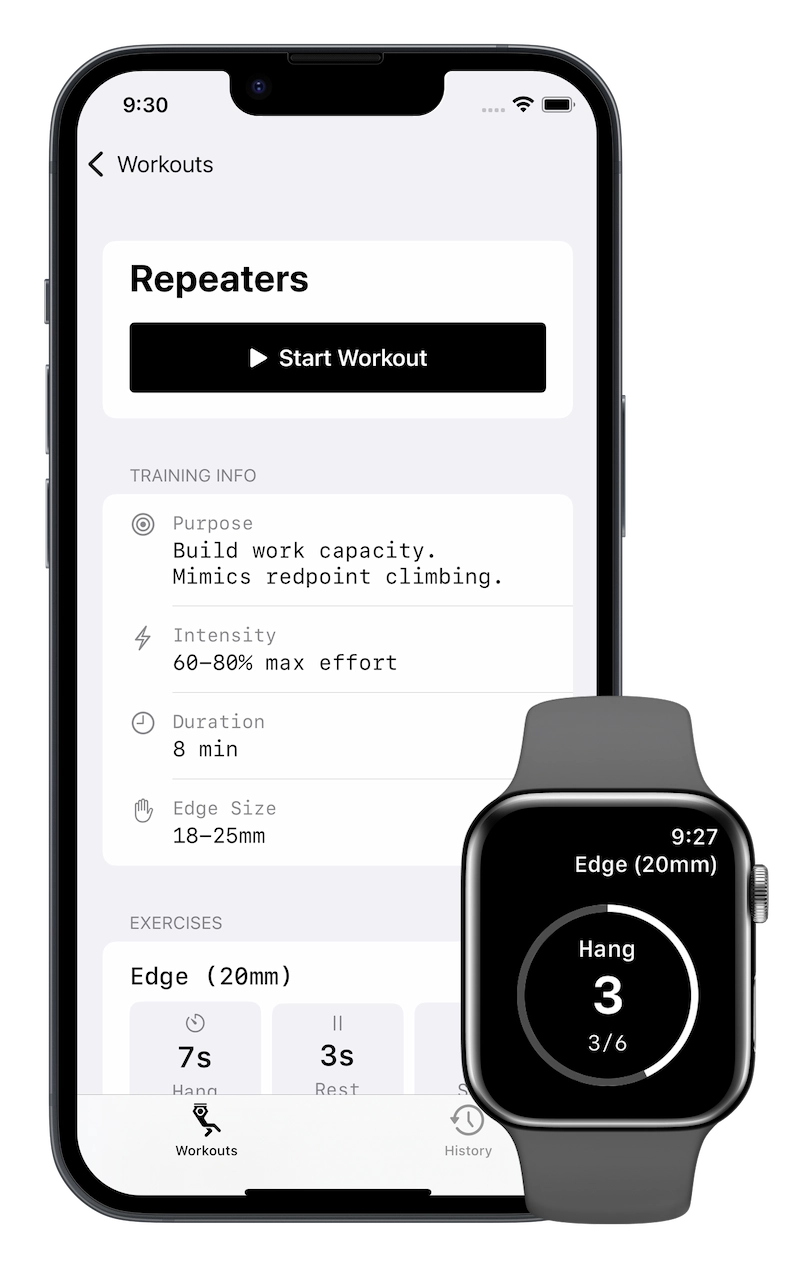
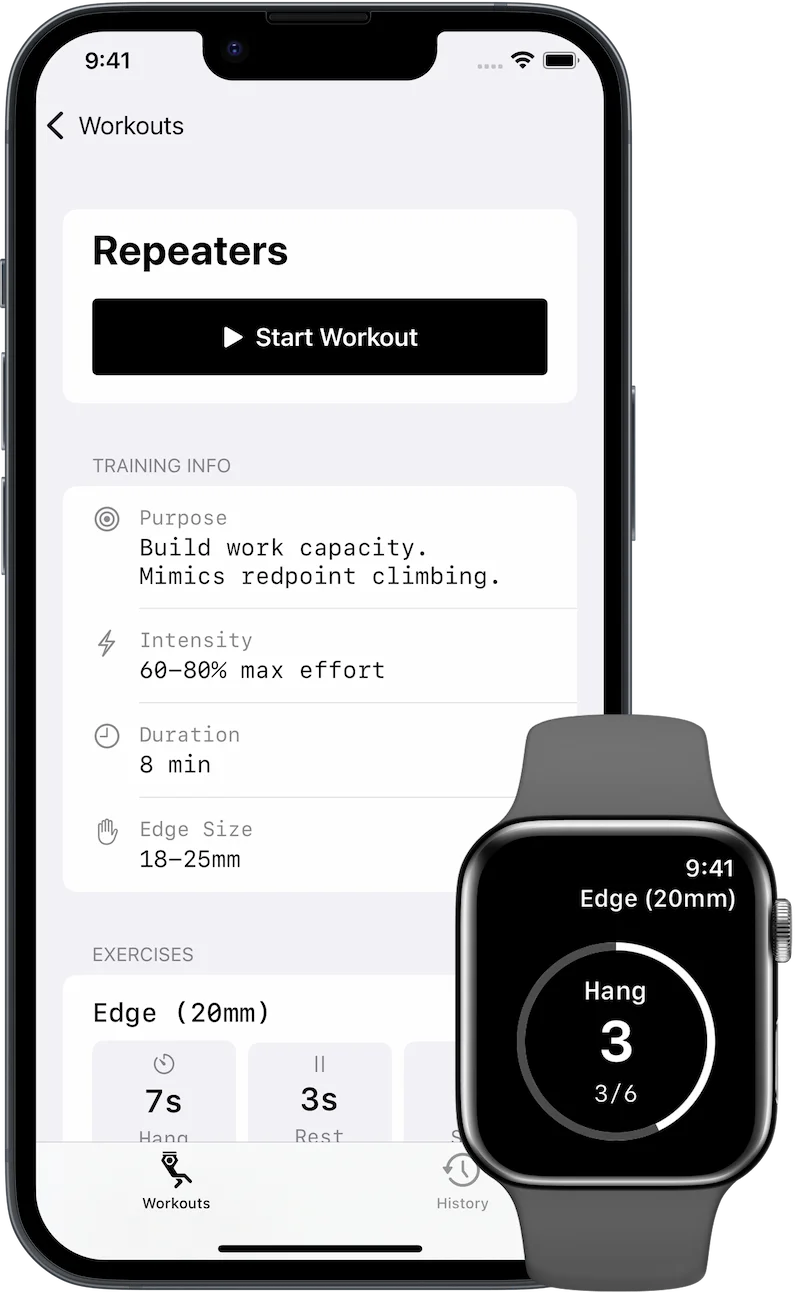
Update project images and card layout

Changed region(s): [[0.0, 0.0, 1.0, 1.0], [0.375, 0.7934, 0.4375, 0.885]]

diff --git a/src/components/RecentProjects.tsx b/src/components/RecentProjects.tsx
@@ -22,11 +22,12 @@ const RecentProjects = () => {
       title: 'Can I Surf Today?',
       tagline: 'Hyperlocal AI-powered surf report',
       description:
-        "A modern take on calling the local surf shop's answering machine daily report, this tool gathers realtime local buoy, tide and weather data and produces a stoke-filled surf report written by a friendly AI surfer. Built to enable quick, fun informed decisions – without a PhD in meteorology.",
+        'A modern take on local surf reports, this tool gathers realtime buoy, tide and weather data and produces a stoke-filled surf report written by a friendly, knowledgeable AI surfer for quick, fun and informed decisions – without needing a PhD in meteorology.',
       icon: '/images/wave-logo.svg',
+      image: '/images/canisurftoday.webp',
       tags: ['Next.js', 'Vercel AI SDK', 'NOAA/Open-Meteo APIs', 'Neon', 'Bun'],
       liveUrl: 'https://canisurf.today',
-      linkText: 'See the latest report',
+      linkText: "Read today's report",
       githubUrl: '#',
       type: 'Web App & API',
     },
@@ -50,45 +51,50 @@ const RecentProjects = () => {
           >
             <div className="flex-1 space-y-6">
               <div>
-                <div className="flex flex-col md:flex-row justify-between">
+                <div
+                  className={`flex flex-col ${index % 2 === 1 ? 'md:flex-row-reverse' : 'md:flex-row'} gap-8 justify-between`}
+                >
                   {project.image && (
                     <img
                       src={project.image}
                       alt={`${project.title} mockup`}
-                      className="max-h-[400px] mr-8 object-contain"
+                      className="max-h-[400px] object-contain"
                     />
                   )}
-                  <div className="flex flex-col md:gap-4">
-                    <div className="flex mt-4">
-                      <img
-                        src={project.icon}
-                        alt={project.title}
-                        className="w-16 h-16 rounded-2xl"
-                      />
-                      <div className="flex flex-col gap-0.5 ml-4">
-                        <h3 className="text-2xl font-sans font-bold leading-tight pt-1">
-                          {project.title}
-                        </h3>
-                        <h4 className="text-md text-gray-600 font-semibold tracking-wide leading-relaxed mb-1">
-                          {project.tagline}
-                        </h4>
+                  <div className="flex flex-col justify-between md:gap-4">
+                    <div>
+                      <div className="flex mt-6 md:mt-1">
+                        <img
+                          src={project.icon}
+                          alt={project.title}
+                          className="w-16 h-16 rounded-2xl"
+                        />
+                        <div className="flex flex-col gap-0.5 ml-4">
+                          <h3 className="text-2xl font-sans font-bold leading-tight pt-1">
+                            {project.title}
+                          </h3>
+                          <h4 className="text-md text-gray-600 font-semibold tracking-wide leading-relaxed mb-1">
+                            {project.tagline}
+                          </h4>
+                        </div>
                       </div>
+
+                      <p className="my-4 text-md text-gray-600 leading-relaxed">
+                        {project.description}
+                      </p>
+                      {project.linkText && (
+                        <a
+                          href={project.liveUrl}
+                          target="_blank"
+                          rel="noopener noreferrer"
+                          className="mb-6"
+                        >
+                          {project.linkText}{' '}
+                          <ArrowUpRight className="inline-block ml-1" size={16} weight="bold" />
+                        </a>
+                      )}
                     </div>
 
-                    <p className="my-4 text-md text-gray-600 leading-relaxed">
-                      {project.description}
-                    </p>
-                    {project.linkText && (
-                      <a
-                        href={project.liveUrl}
-                        target="_blank"
-                        rel="noopener noreferrer"
-                        className="mb-6"
-                      >
-                        {project.linkText}{' '}
-                        <ArrowUpRight className="inline-block ml-1" size={16} weight="bold" />
-                      </a>
-                    )}
                     {/* Tags */}
                     <div className="flex flex-wrap gap-2">
                       {project.tags.map((tag) => (